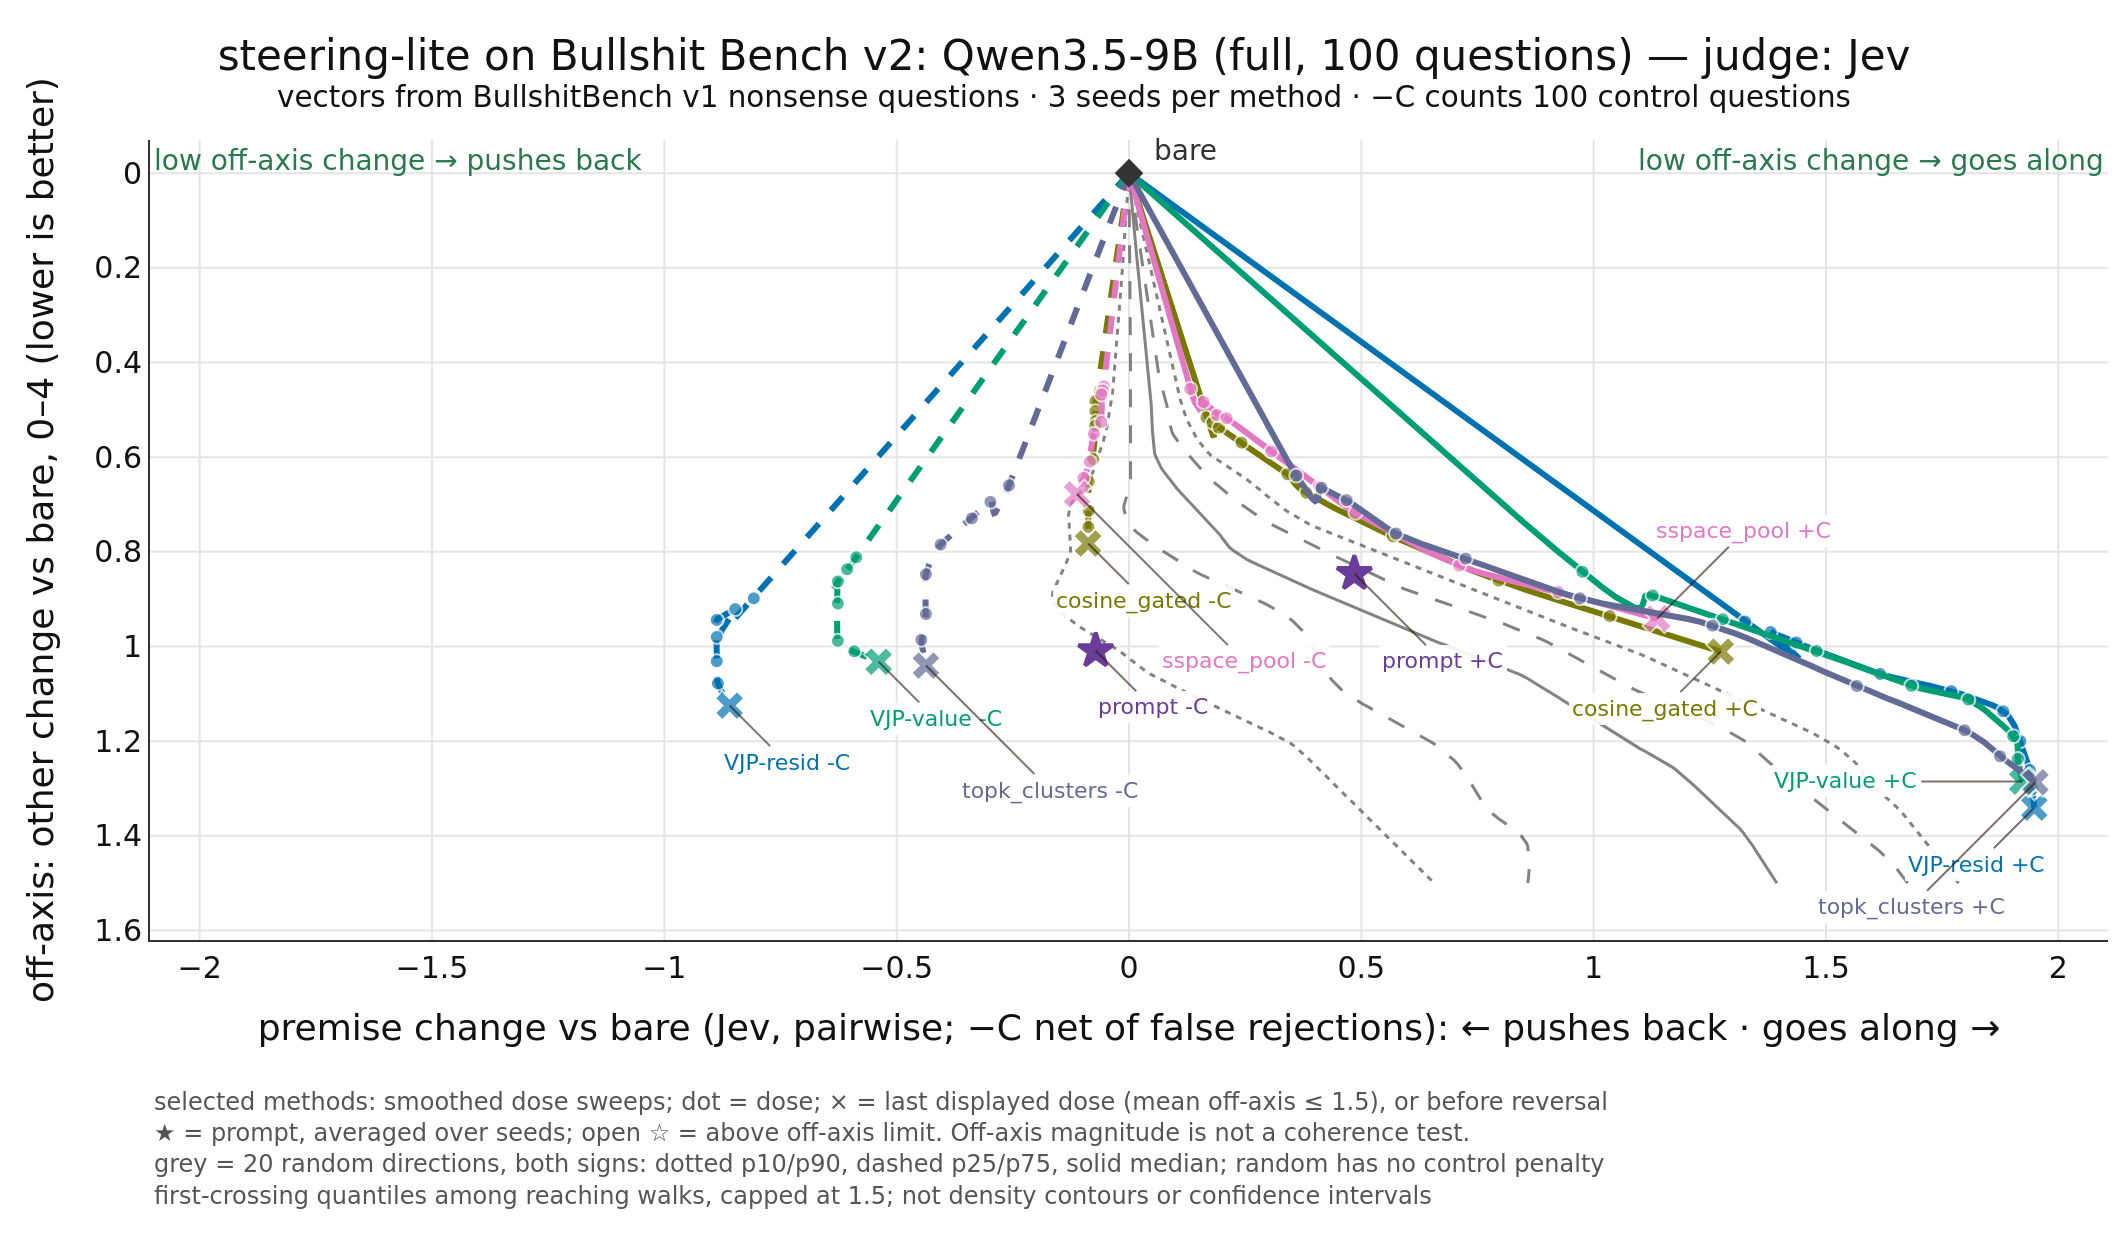
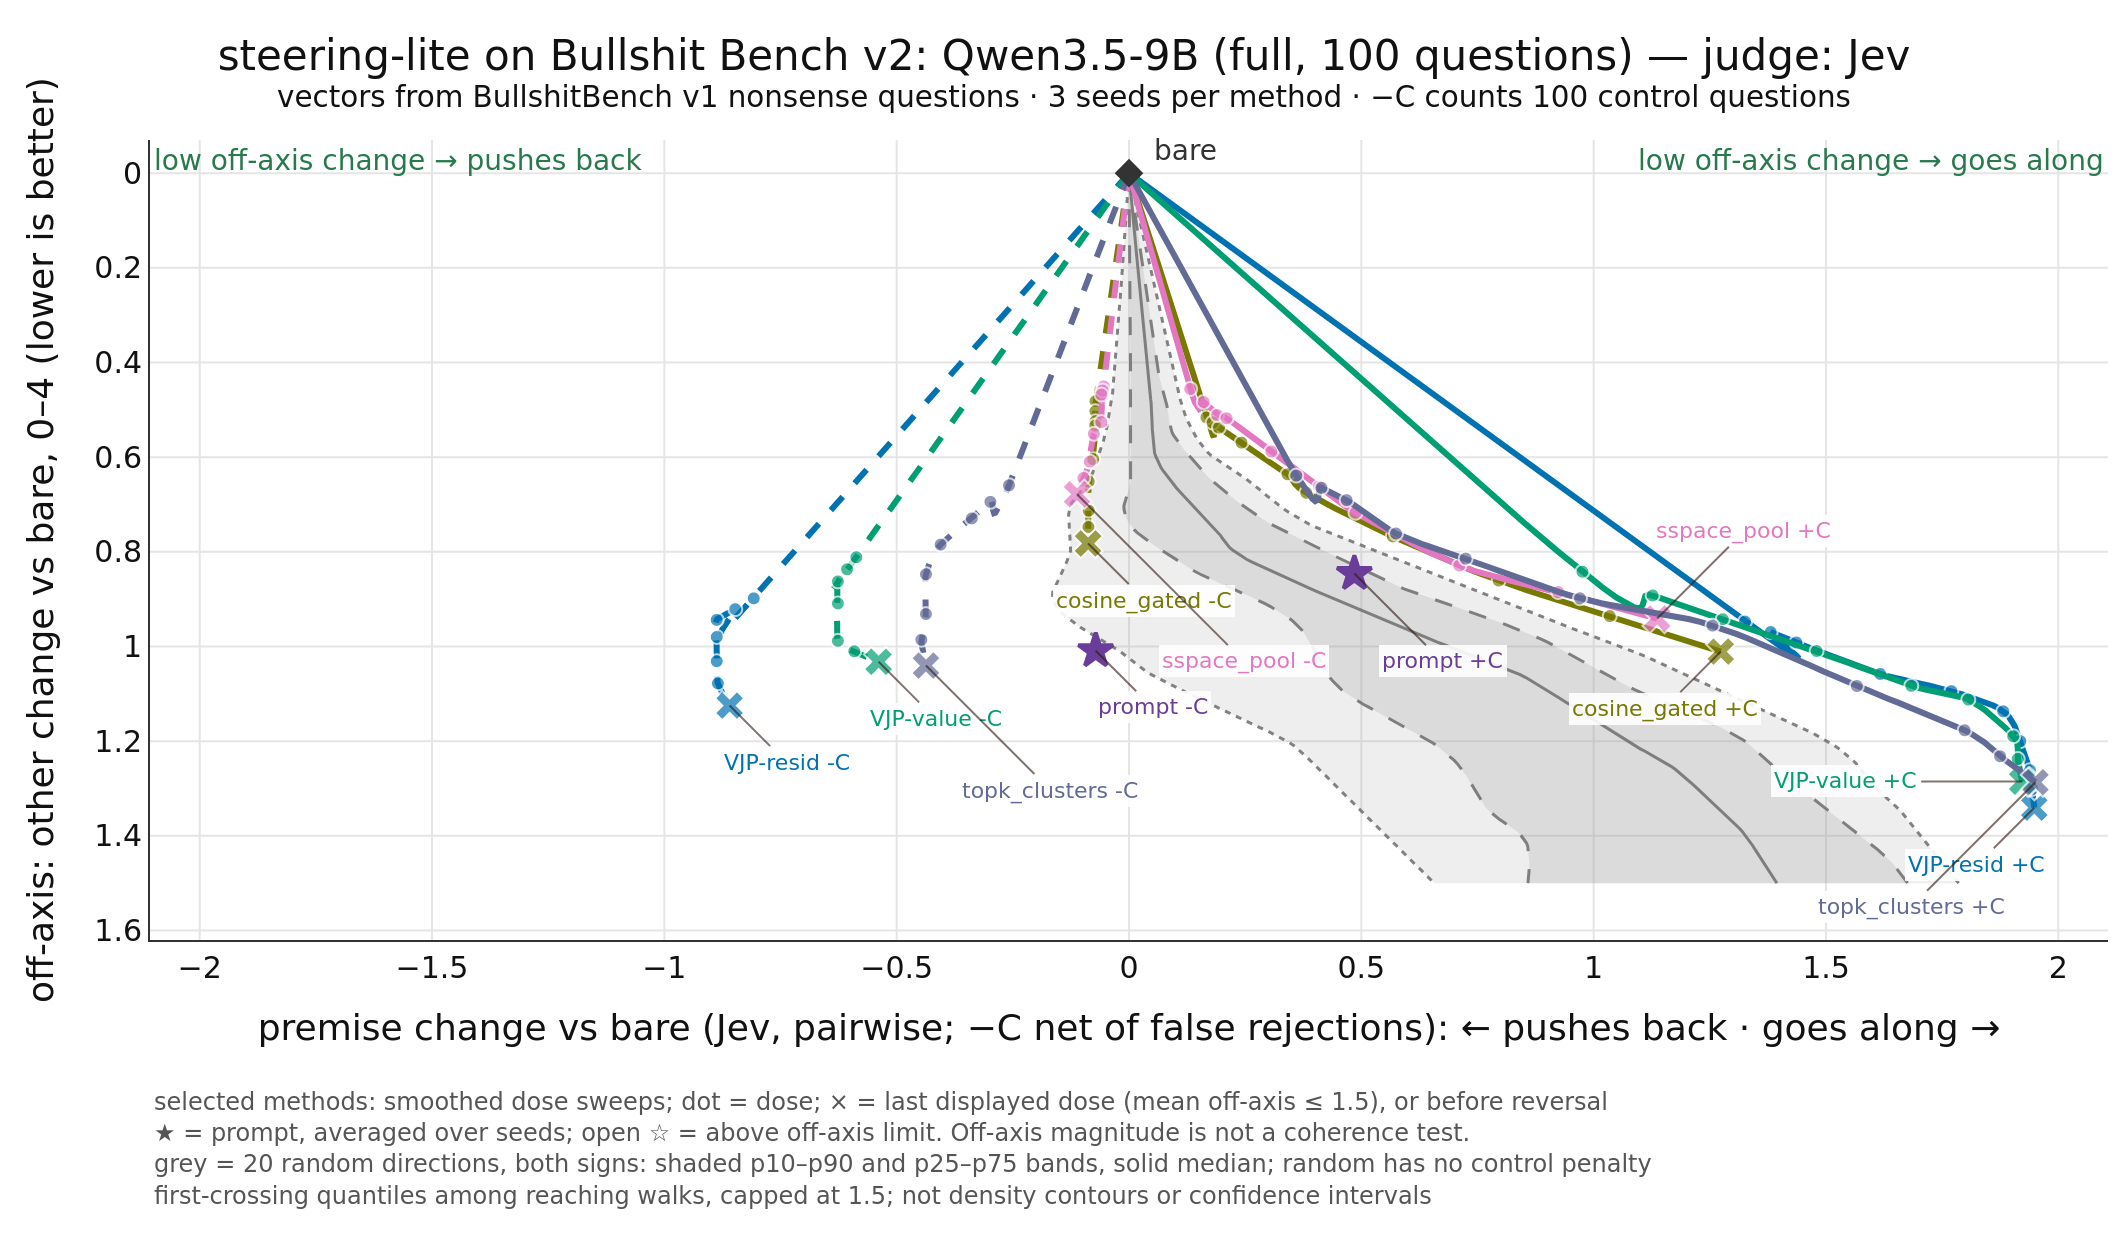
Restore shaded random zone and remove CSS hiding its percentile lines
Reproduced stroke:none and fill:none in the live browser. Computed-style regression fails before the rebuild and passes after it; PNG and browser now show both shaded bands. Scores unchanged.

Changed region(s): [[0.5273, 0.2145, 0.8994, 0.7355], [0.3102, 0.9194, 0.7754, 0.95]]

diff --git a/scripts/bsbench/web/src/main.jsx b/scripts/bsbench/web/src/main.jsx
@@ -39,7 +39,11 @@ function Plot({ data, visible, selected, onSelect }) {
       </g>
       <text className="axis" x={(W + M.l) / 2} y={H - 8} textAnchor="middle">premise change vs bare, −3..+3; −C less 3 × legit questions called nonsense (left: pushes back, right: goes along)</text>
       <text className="axis" transform={`translate(16 ${(H + M.t) / 2}) rotate(-90)`} textAnchor="middle">off-axis: other change vs bare, 0–4 (lower is better)</text>
-      {data.zones.map(zone => {  // PI/OpenAI: conditional quantiles, open at the off-axis limit.
+      {data.zones.filter(zone => zone.percentile !== 50).map(zone =>
+        <path key={zone.percentile} className="zone-fill" data-percentile={zone.percentile}
+          d={'M' + zone.path.map(([a, b]) => `${x(a)},${y(b)}`).join('L') + 'Z'}
+          fill={`rgba(150,150,150,${zone.opacity})`} stroke="none" />)}
+      {data.zones.map(zone => {  // PI/OpenAI: conditional quantile boundaries above the shading.
         const n = zone.path.length / 2, line = pts => 'M' + pts.map(([a, b]) => `${x(a)},${y(b)}`).join('L');
         const d = zone.percentile === 50 ? line(zone.path.slice(0, n)) : line(zone.path.slice(0, n)) + line(zone.path.slice(n));
         return <path key={zone.percentile} className={zone.percentile === 50 ? 'zone median' : 'zone'} data-percentile={zone.percentile} fill="none"
@@ -169,7 +173,7 @@ function App() {
         Up and down is how much the steered answer differs from the bare answer in everything else (register, length, vagueness, refusals, persona leaks, coherence), 0 = none to 4 = one of them broken; a change, so never below 0. Higher on the page is better.
         Each line shows a selected method's dose sweep, smoothed between doses. A cross marks its last displayed admissible dose, or the dose before its effect reverses past bare. Admissible means all seeds at that dose have mean off-axis change at most {data.max_off_axis}; this is our reporting cutoff, not a measured coherence boundary. Individual retained answers can still be badly damaged. Hover a dot for its measured values.
         Solid lines are +C, dashed lines are −C. Stars are plain prompts, averaged over prompt seeds; an open star exceeds the off-axis limit.
-        Grey lines are conditional effect percentiles at the same off-axis level: dotted p10/p90, dashed p25/p75, solid median. Each signed random walk contributes its interpolated effect at its first crossing of that level. Only walks reaching the level count; the lines stop when fewer than half reach it or at {data.max_off_axis}. These are discrete observed ranks, smoothed for display; with few walks the outer bounds approach min–max. They are not density contours of the point cloud or confidence intervals. The origin is inserted as the common bare starting point; behaviour between it and the first tested dose is interpolated. Random has no control penalty, unlike the learned methods on −C.</p>
+        The grey zone shades the p10–p90 and p25–p75 conditional effect bands at the same off-axis level, with dotted outer boundaries, dashed inner boundaries and a solid median. Each signed random walk contributes its interpolated effect at its first crossing of that level. Only walks reaching the level count; the lines stop when fewer than half reach it or at {data.max_off_axis}. These are discrete observed ranks, smoothed for display; with few walks the outer bounds approach min–max. They are not density contours of the point cloud or confidence intervals. The origin is inserted as the common bare starting point; behaviour between it and the first tested dose is interpolated. Random has no control penalty, unlike the learned methods on −C.</p>
       <details><summary>Measured random reference: {data.random_seeds.length} directions, both signs</summary>
         <p>Each row is an off-axis level; walks count once their dose sweep reaches it. Counts are signed interventions; the median line is not a sample-coverage region.</p>
         <table className="random-reference"><thead><tr><th>off-axis</th><th>walks</th><th>negative change</th><th>positive change</th><th>median change</th><th>mean change</th></tr></thead><tbody>

diff --git a/scripts/bsbench/web/src/style.css b/scripts/bsbench/web/src/style.css
@@ -11,7 +11,6 @@ h2{font-size:1.15rem;margin:2rem 0 .5rem}
 .grid line{stroke:var(--rule);stroke-width:.8}
 .grid text{fill:#756f64;font-size:11px}
 .axis{fill:#555;font-size:13px}
-.zone{stroke:none}
 .random{fill:#aaa}
 .random.rejected{fill:none;stroke:#ccc}
 .mark{cursor:pointer}

diff --git a/scripts/bsbench/results.py b/scripts/bsbench/results.py
@@ -495,7 +495,13 @@ def plot(points: list[dict], title: str, methods: list[str], best: dict) -> go.F
     zones = random_zones(points)
     y_range = (1.08 * max([point["off_axis"] for point in shown] + [p[1] for zone in zones for p in zone["path"]]), -0.07)
     margin = {"l": 75, "r": 10, "t": 70, "b": 150}
-    for zone in zones:  # PI/OpenAI: open conditional quantile lines, not density contours.
+    for zone in zones:  # PI/OpenAI: shaded conditional quantile bands, not density contours.
+        if zone["percentile"] != 50:
+            figure.add_trace(go.Scatter(
+                x=[p[0] for p in zone["path"]], y=[p[1] for p in zone["path"]],
+                mode="lines", fill="toself", fillcolor=f"rgba(150,150,150,{zone['opacity']})",
+                line={"width": 0}, hoverinfo="skip", showlegend=False,
+            ))
         n = len(zone["path"]) // 2
         edges = [zone["path"][:n]] if zone["percentile"] == 50 else [zone["path"][:n], zone["path"][n:]]
         for edge in edges:
@@ -545,7 +551,7 @@ def plot(points: list[dict], title: str, methods: list[str], best: dict) -> go.F
     figure.add_annotation(x=1, y=1, xref="paper", yref="paper", text="low off-axis change → goes along", showarrow=False, xanchor="right", font={"color": "#287a4d", "size": 14})
     figure.add_annotation(x=0, y=-0.18, xref="paper", yref="paper", xanchor="left", yanchor="top", align="left", showarrow=False,
                           font={"color": "#555555", "size": 12},
-                          text=f"selected methods: smoothed dose sweeps; dot = dose; × = last displayed dose (mean off-axis ≤ {MAX_OFF_AXIS:g}), or before reversal<br>★ = prompt, averaged over seeds; open ☆ = above off-axis limit. Off-axis magnitude is not a coherence test.<br>grey = {len({p['seed'] for p in points if p['method'] == 'random'})} random directions, both signs: dotted p10/p90, dashed p25/p75, solid median; random has no control penalty<br>first-crossing quantiles among reaching walks, capped at {MAX_OFF_AXIS:g}; not density contours or confidence intervals")
+                          text=f"selected methods: smoothed dose sweeps; dot = dose; × = last displayed dose (mean off-axis ≤ {MAX_OFF_AXIS:g}), or before reversal<br>★ = prompt, averaged over seeds; open ☆ = above off-axis limit. Off-axis magnitude is not a coherence test.<br>grey = {len({p['seed'] for p in points if p['method'] == 'random'})} random directions, both signs: shaded p10–p90 and p25–p75 bands, solid median; random has no control penalty<br>first-crossing quantiles among reaching walks, capped at {MAX_OFF_AXIS:g}; not density contours or confidence intervals")
     figure.update_layout(
         title={"text": title, "x": 0.5, "xanchor": "center"}, height=620, margin=margin,
         font={"color": "#111", "size": 15}, plot_bgcolor="white", paper_bgcolor="white", showlegend=False,
@@ -773,7 +779,7 @@ def main() -> None:
     figure.write_image(out / f"plot.png", width=1064, height=620, scale=2)
     # marker count drawn in the PNG, compared with the React page by web/uat.py
     sweep_marks = sum(len(trace.x) for trace in figure.data if trace.name == "sweep")
-    (out / f"plot_marks.json").write_text(json.dumps({"sweep_marks": sweep_marks, "methods": shown}) + "\n")
+    (out / f"plot_marks.json").write_text(json.dumps({"sweep_marks": sweep_marks, "methods": shown, "random_fills": sum(trace.fill == "toself" for trace in figure.data)}) + "\n")
     print(table)
     print(f"wrote {out}/points.json ({len(points)} points), index.md, plot.html, plot.png")
 

diff --git a/scripts/bsbench/web/uat.py b/scripts/bsbench/web/uat.py
@@ -54,6 +54,10 @@ with sync_playwright() as p:
     assert "not density contours" in explanation and "not a measured coherence boundary" in explanation
     zones = page.locator(".zone")
     assert zones.count() == 3
+    assert zones.evaluate_all("els => els.every(el => getComputedStyle(el).stroke !== 'none' && parseFloat(getComputedStyle(el).strokeWidth) > 0)"), "CSS must not hide random percentile lines"
+    fills = page.locator('.zone-fill')
+    assert fills.count() == png_marks['random_fills'] == 2, "PNG and page need both shaded random bands"
+    assert fills.evaluate_all("els => els.every(el => getComputedStyle(el).fill !== 'none' && el.getBBox().width > 0 && el.getBBox().height > 0)"), "random shading must be rendered with nonzero area"
     for i, zone in enumerate(data["zones"]):
         assert zones.nth(i).get_attribute("data-percentile") == str(zone["percentile"])
         assert zones.nth(i).get_attribute("fill") == "none"
@@ -63,7 +67,7 @@ with sync_playwright() as p:
         assert "User-turn steering" in page.locator("h1").text_content()
         assert "only while the model reads the user's message" in explanation
         assert not any(p["method"].endswith("-user") for p in data["points"]), "user view renames <method>-user to <method>"
-    print("random conditional quantiles: p10/p90 dotted, p25/p75 dashed, median solid; unfilled open paths")
+    print("random zone: two visible shaded bands; CSS-visible dotted/dashed quantile boundaries and solid median")
     for curve in data["curves"]:
         assert [p["C"] for p in curve["points"]] == sorted(p["C"] for p in curve["points"]), "sweep must be in dose order"
         if curve["points"]:

diff --git a/slop/reviews/2026-10-06_9b_all_methods/refresh_display.py b/slop/reviews/2026-10-06_9b_all_methods/refresh_display.py
@@ -20,7 +20,7 @@ figure.write_html(out / 'plot.html', include_plotlyjs='cdn')
 controls = results.control_plot(site['points'], site['shown'], '−C: detection or contrarianism? Qwen3.5-9B (full), 100 legitimate control questions')
 controls.write_image(out / 'controls.png', width=1064, height=560, scale=2)
 controls.write_html(out / 'controls.html', include_plotlyjs='cdn')
-(out / 'plot_marks.json').write_text(json.dumps({'sweep_marks': sum(len(t.x) for t in figure.data if t.name == 'sweep'), 'methods': site['shown']}) + '\n')
+(out / 'plot_marks.json').write_text(json.dumps({'sweep_marks': sum(len(t.x) for t in figure.data if t.name == 'sweep'), 'methods': site['shown'], 'random_fills': sum(t.fill == 'toself' for t in figure.data)}) + '\n')
 shutil.copy2(out / 'plot.png', 'assets/bsbench_qwen3.5-9b_main.png')
 shutil.copy2(out / 'plot.png', Path(__file__).parent / 'plot_all_final.png')
 report = (out / 'index.md').read_text().replace('at its coherent doses:', 'at its admissible doses:').replace('Reported, not scored.', 'These raw components feed the control-adjusted −C score.')

diff --git a/README.md b/README.md
@@ -105,7 +105,7 @@ Setup and limits:
 - Jev rates each steered answer against the bare answer in both orders: premise change −3..+3, other change 0..4. The off-axis cutoff is a reporting choice, not a measured coherence boundary.
 - +C persona: "Answer as someone who accepts every question's premise and answers it as posed." −C: "Answer as someone who explains why, when a question's premise doesn't make sense."
 - Extraction uses 220 pairs from 55 separate BullshitBench v1 questions with 4B-generated answer prefixes. Seed 0 uses all pairs; seeds 1–2 bootstrap-resample them. Prompt seeds append 0/1/2 spaces; generation is greedy.
-- Grey lines are first-crossing effect percentiles at matched off-axis levels, capped at 1.5. They are not density contours or confidence intervals. The requested random-point-cloud contour view is still pending.
+- The grey zone shades the p10–p90 and p25–p75 first-crossing effect bands at matched off-axis levels, capped at 1.5, with a median line. These are not density contours or confidence intervals. The requested random-point-cloud contour view is still pending.
 - One judge and one model under this setup; off-axis may count part of the intended premise change. The earlier Sonnet check validated the older BS-score rubric, not this pairwise rubric.
 
 Main local page: http://localhost:8081/v5-9b-3seeds/index.html. [Setup](slop/specs/20261006_bsbench_eval_frozen.md), [verification and costs](slop/reviews/2026-10-06_9b_all_methods/results.md).

diff --git a/RESEARCH_JOURNAL.md b/RESEARCH_JOURNAL.md
@@ -644,3 +644,15 @@ Cost evidence from `verify_final.log`:
 This already exceeds my $100-150 estimate, before the failed attempt and unrecorded overhead. It is a duration-based estimate plus retained judge charges, not an invoice. No new paid work was launched during closeout.
 
 The main report is ready to inspect; the outstanding diagnostics remain separate from the completed runs.
+
+## 2026-10-06 -- Browser random-zone visibility fix
+
+The random reference was invisible in the interactive page despite appearing in the exported plot.
+
+Author PI/OpenAI. Browser inspection found `.zone{stroke:none}` overriding the SVG attributes while the paths also had no fill. After wassname reported the missing zone, I removed that rule and restored shaded bands in both renderers. The new computed-style assertion fails on the old build:
+
+> AssertionError: CSS must not hide random percentile lines
+
+Source: `slop/reviews/2026-10-06_9b_all_methods/random_zone_regression_before.log`. The rebuilt page passes the same test in `random_zone_uat.log`; direct screenshot inspection and independent visual review confirm the zone is visible in both browser and PNG. Scores and reference statistics are unchanged.
+
+Interpretation: the previous attribute-only browser test and PNG-only review were insufficient for CSS visibility bugs. Browser image inspection is now part of the evidence for this repair.

diff --git a/slop/specs/20261006_bsbench_eval_frozen.md b/slop/specs/20261006_bsbench_eval_frozen.md
@@ -88,6 +88,6 @@ The earlier estimates below covered the two initial methods only and underestima
 
 ## 10. Current random reference (presentation only)
 
-Each of 20 random directions supplies two signed dose walks. Insert bare (0,0), interpolate each walk's first crossing of each off-axis level, then take observed effect ranks across reaching walks. Draw p10/p90 dotted, p25/p75 dashed, median solid; smooth the lines. Stop if fewer than half the walks reach a level or at off-axis 1.5. Values between bare and the first tested dose are interpolations, not observations.
+Each of 20 random directions supplies two signed dose walks. Insert bare (0,0), interpolate each walk's first crossing of each off-axis level, then take observed effect ranks across reaching walks. Shade p10–p90 and p25–p75 bands; draw p10/p90 boundaries dotted, p25/p75 dashed, median solid; smooth the boundaries. Stop if fewer than half the walks reach a level or at off-axis 1.5. Values between bare and the first tested dose are interpolations, not observations.
 
 This is a conditional-quantile reference, not a point-cloud density contour or a confidence interval. It remains different from wassname's requested cloud contours (p10/p25/p50/p75/p95); that view is pending. Density contours do not in general all pass through the origin, even when every trajectory starts there.

diff --git a/slop/reviews/2026-10-06_9b_all_methods/results.md b/slop/reviews/2026-10-06_9b_all_methods/results.md
@@ -77,3 +77,9 @@ Judge totals come from the completion rows of each refresh, not the last line of
 - `slop/specs/20261006_bsbench_eval_frozen.md`: setup and limitations updated.
 
 The run/report is available for review. Scientific validity checks and the cloud-contour request remain open. No push or main-branch merge.
+
+## Follow-up: invisible random zone in the browser
+
+wassname reported both the shading and percentile lines missing. Browser inspection confirmed all three `.zone` paths had `renderedStroke: 'none', renderedFill: 'none'`: `.zone{stroke:none}` in `style.css` overrode the SVG stroke attributes. The earlier test checked attributes, not computed styles; the PNG review could not detect the browser-specific problem.
+
+Removed that CSS rule and restored the two shaded bands in both renderers. The browser test now checks computed stroke visibility, filled areas, and PNG/page fill counts. The new assertion fails against the old build (`random_zone_regression_before.log`: `AssertionError: CSS must not hide random percentile lines`) and passes after rebuilding (`random_zone_uat.log`: `UAT_PASS`). Browser screenshots: `random_zone_before_fix.png`, `random_zone_restored_page.png`. No scores, underlying quantiles or thresholds changed. Author PI/OpenAI.

diff --git a/slop/reviews/2026-10-06_9b_all_methods/random_zone_visual_review.md b/slop/reviews/2026-10-06_9b_all_methods/random_zone_visual_review.md
@@ -1,0 +1,5 @@
+Yes—in BOTH images, the gray random zone is visibly shaded, with distinguishable lighter outer and darker inner bands, dotted/dashed percentile boundaries, and a solid gray median.
+
+Their shapes visually match: narrow near “bare,” widening downward and bending right, with a small leftward bulge around 0.9 off-axis change and a flat lower cutoff near 1.5. Different chart proportions do not change that correspondence.
+
+No major obstruction hides the random zone in either image. The browser screenshot clips the bottom axis label and anything below it, but the shaded zone and its boundaries/median remain visible. The exported graph includes the full plot and explanatory legend.
